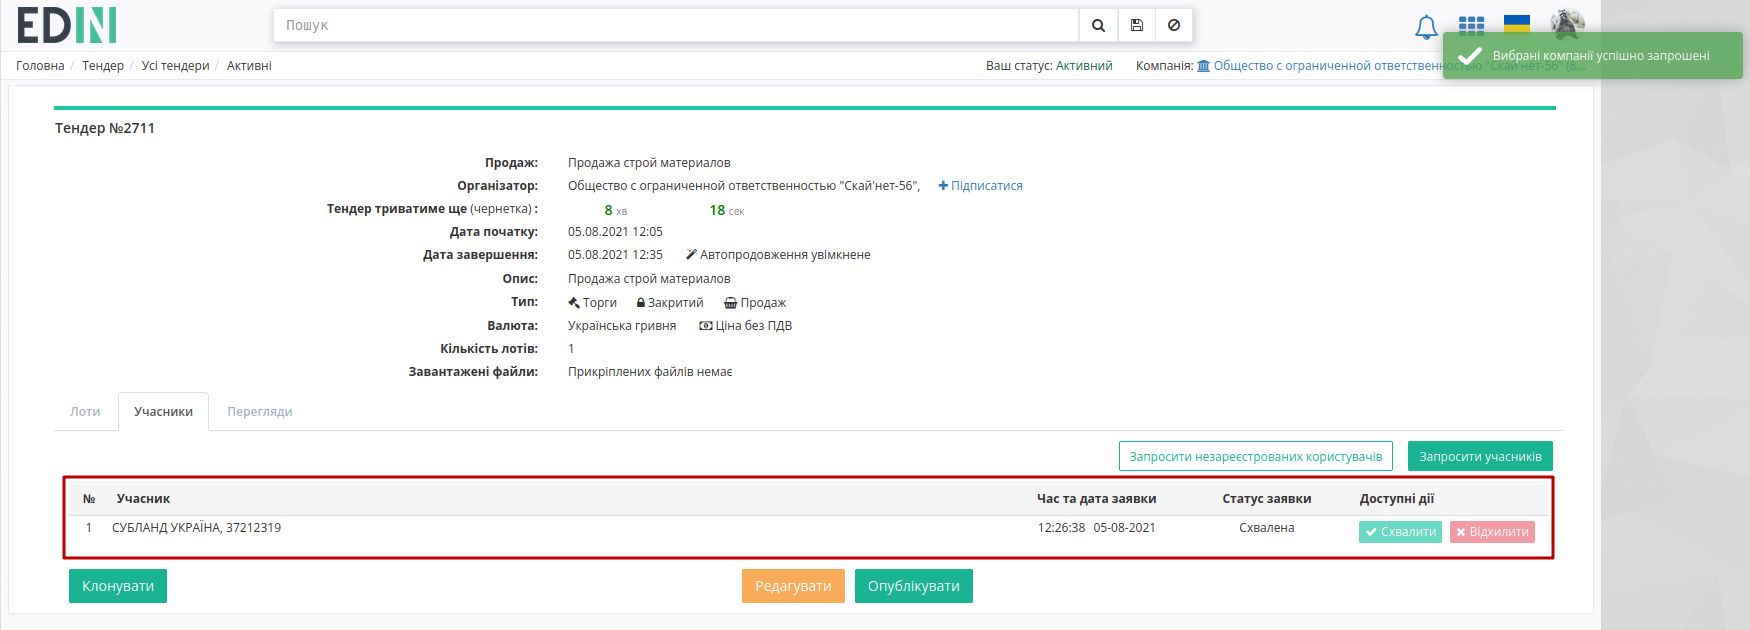
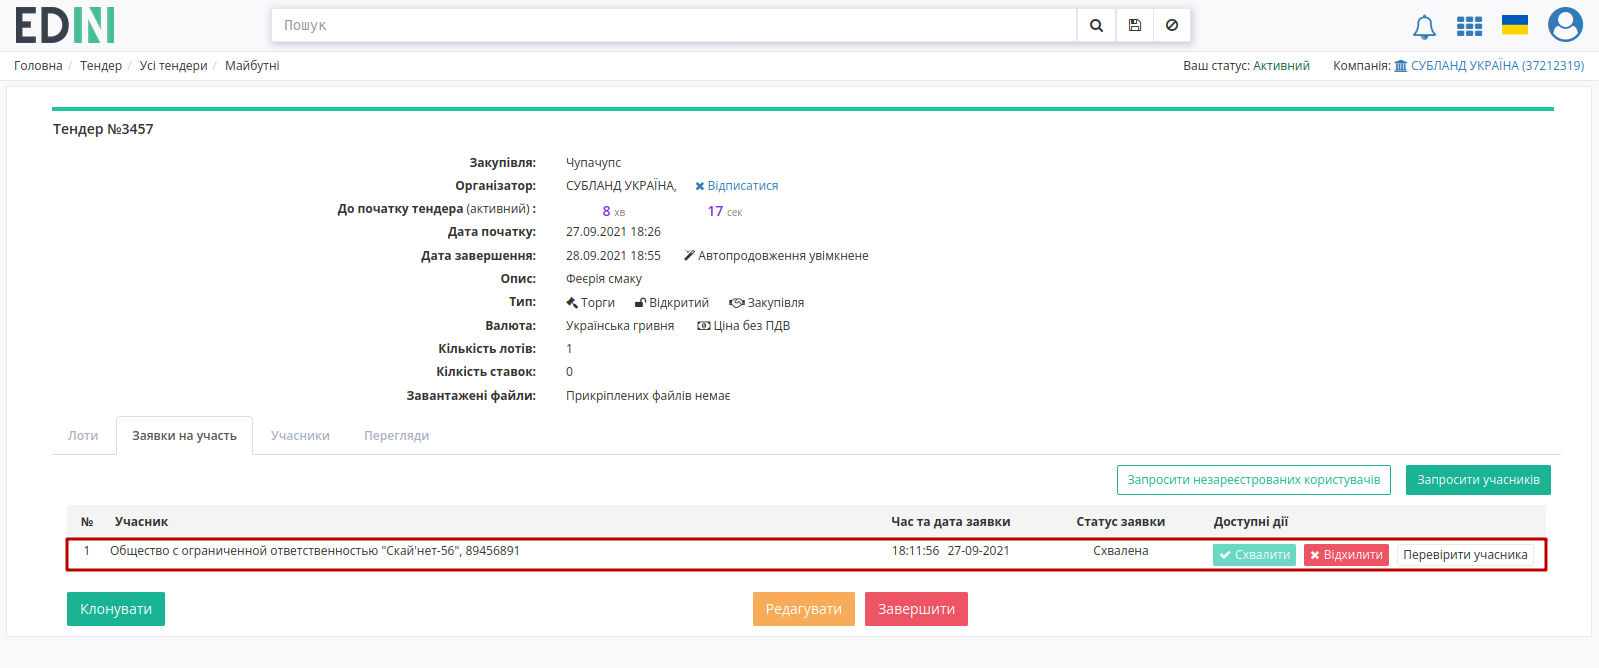
OpenDataBot

Changed region(s): [[0.0, 0.0, 1.0, 1.0], [0.1839, 0.2413, 0.5822, 0.6032]]

diff --git a/docs/Tender_2_0/Work_with_Tender.rst b/docs/Tender_2_0/Work_with_Tender.rst
@@ -396,7 +396,7 @@
 
 Після натискання на кнопку **"Опублікувати"**, Ваш тендер автоматично стає **"Активним"** а також з'являється в журналі тендерів в списку **"Усі тендери"**.
 
-**3.1.3 Учасники**
+**3.1.3 Заявки на участь**
 ~~~~~~~~~~~~~~~~~~~~~~~~~~~~~~~~~~~~
 
 .. attention::
@@ -416,6 +416,11 @@
 Запрошений "Учасник" може переглянути інформацію по тендеру і його лотам, а у Організатора в цьому тендері відобразиться список запрошених учасників:
 
 .. image:: pics_Work_with_Tender/Work_with_Tender_003.png
+   :align: center
+
+За допомогою кнопки **"Перевірити учасника"** можливо отримати додаткову інформацію про контрагента перед тим, як прийняти рішення:
+
+.. image:: pics_Work_with_Tender/Work_with_Tender_007.png
    :align: center
 
 **3.1.3.2 Запросити незареєстрованих учасників**
@@ -488,7 +493,7 @@
 .. image:: pics_Work_with_Tender/Work_with_Tender_18.png
    :align: center
 
-Після натискання на кнопку "Подати заявку", на екрані з'явиться повідомлення про те, що Ваша заявка була успішно відправлена Організатору, кнопка "Подати заявку" після цього перестає бути активною ("Заявка уже подана"). У Організатора в тендері, на який була подана заявка у вкладці Учасників відображається кількість запитів, що очікують відповіді.
+Після натискання на кнопку "Подати заявку", на екрані з'явиться повідомлення про те, що Ваша заявка була успішно відправлена Організатору, кнопка "Подати заявку" після цього перестає бути активною ("Заявка уже подана"). У Організатора в тендері, на який була подана заявка у вкладці "Заявки на участь" відображається кількість запитів, що очікують відповіді.
 
 .. image:: pics_Work_with_Tender/Work_with_Tender_64.png
    :align: center
@@ -496,7 +501,7 @@
 Коли Організатор ухвалить рішення за Вашою заявою, ви отримаєте повідомлення на e-mail, по цьому тендеру відобразиться інформація по лотам, з'явиться можливість зробити ставку.
 
 .. note::
-   Якщо Організатор відхилить заявку повторно відправити її не буде можливо 
+   Якщо Організатор відхилить заявку повторно відправити її не буде можливо
 
 **3.5 Видалення ставки організатором**
 ---------------------------------------
